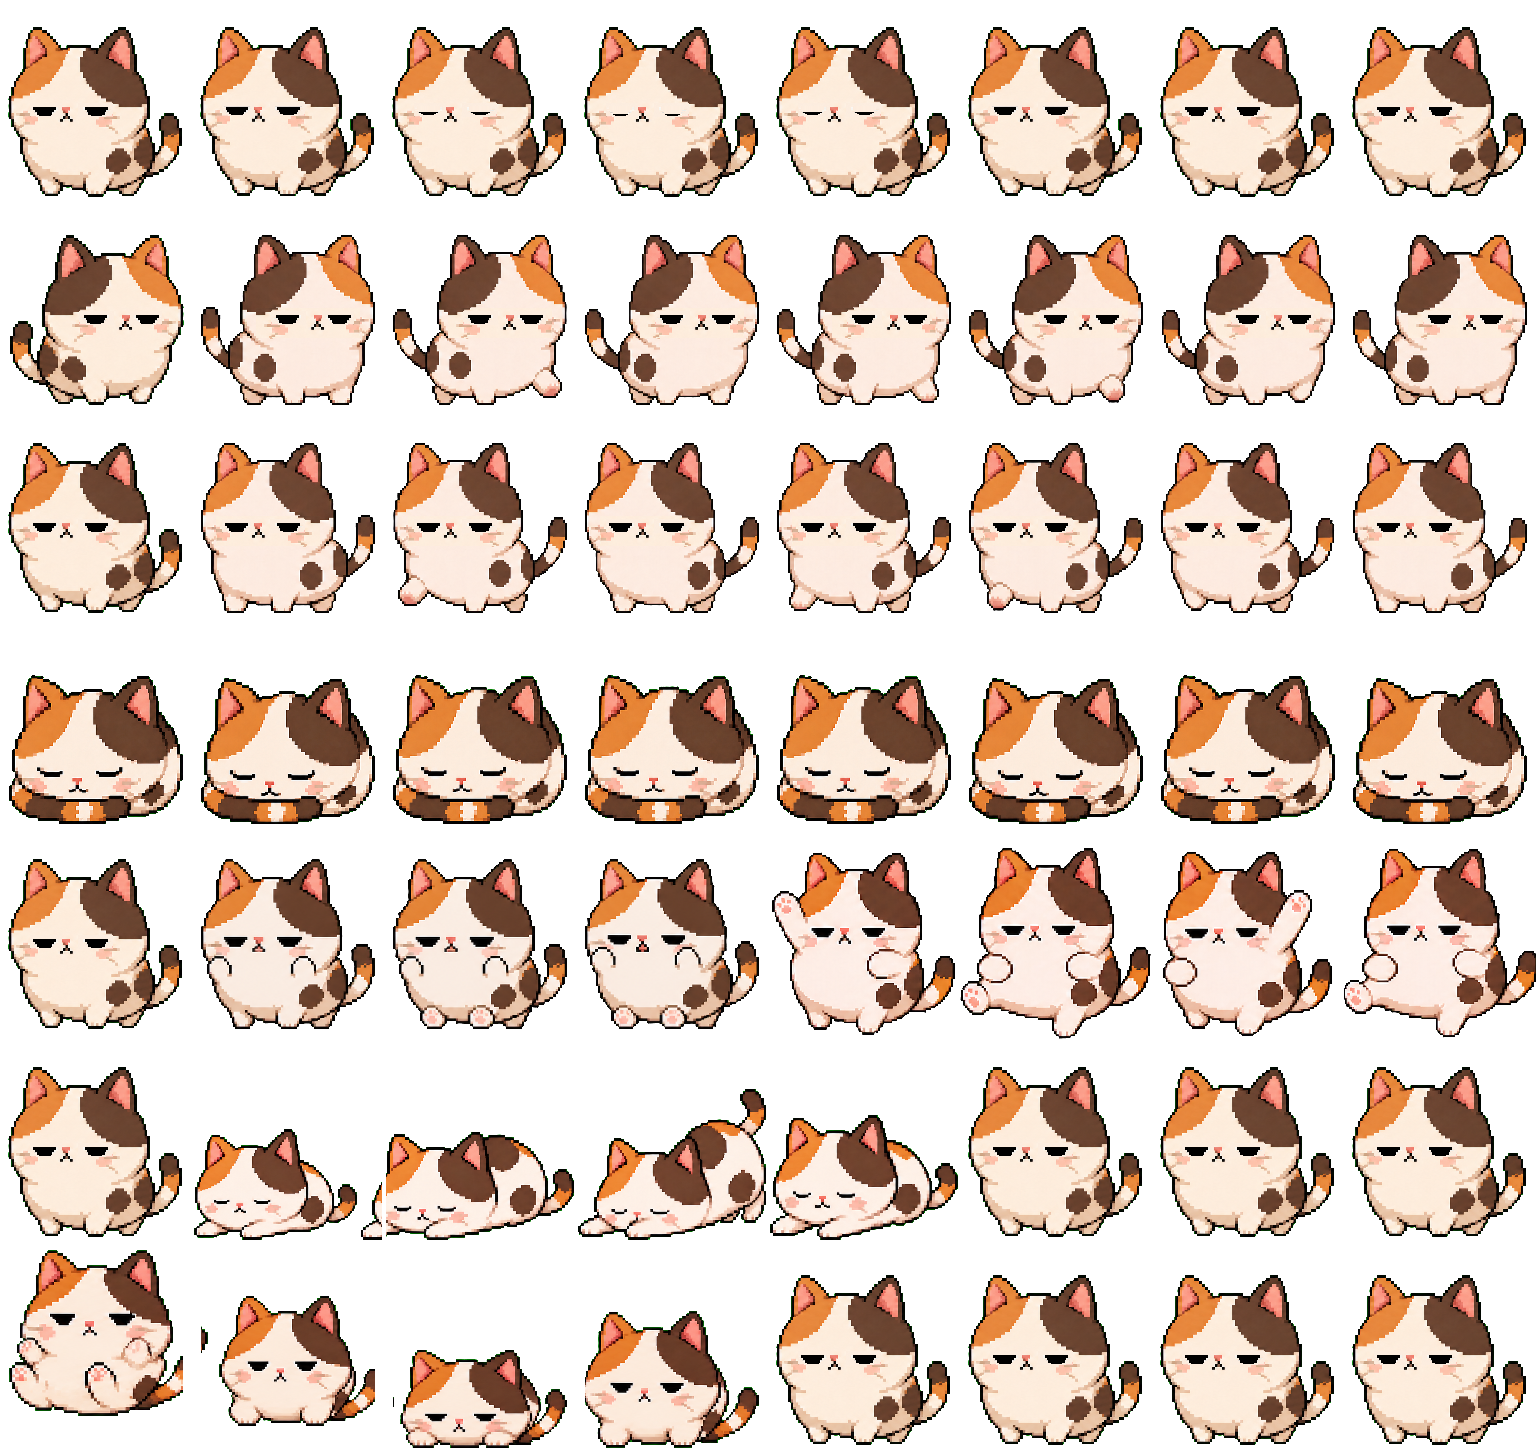
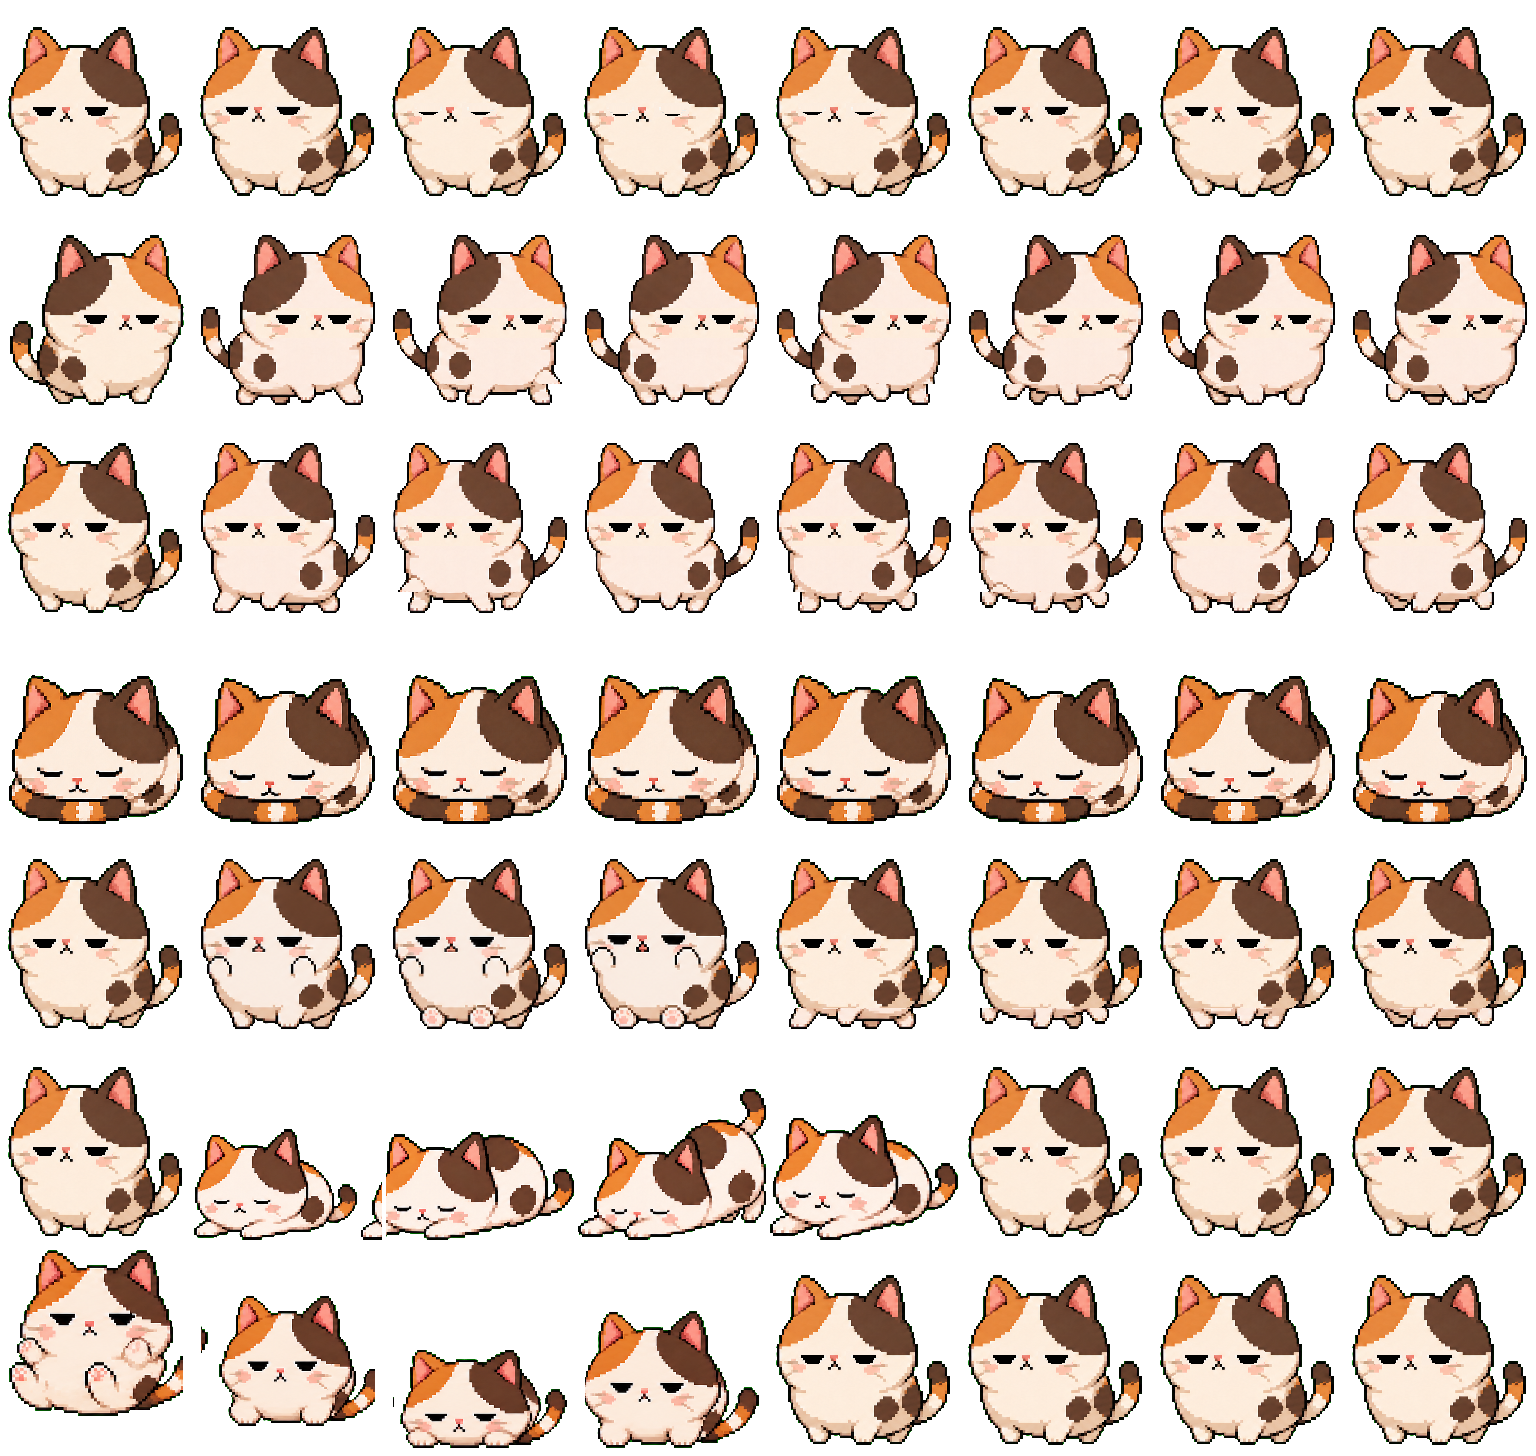
fix: refine FatMochi gait and click reaction

diff --git a/Sources/RoamlingMac/RoamlingRuntime.swift b/Sources/RoamlingMac/RoamlingRuntime.swift
@@ -84,6 +84,8 @@ public final class RoamlingRuntime: NSObject, PetOverlayViewDelegate {
     private var nextWanderAt: TimeInterval
     private var catchArmedUntil: TimeInterval = 0
     private var caughtAnimationUntil: TimeInterval = 0
+    private var clickReactionUntil: TimeInterval = 0
+    private var isClickReactionPending = false
     private var isDragging = false
     private var dragOffset = WorldVector.zero
     private var lastPointerDecision: PointerDecision?
@@ -202,6 +204,8 @@ public final class RoamlingRuntime: NSObject, PetOverlayViewDelegate {
             NotificationCenter.default.removeObserver(screenObserver)
             self.screenObserver = nil
         }
+        clickReactionUntil = 0
+        isClickReactionPending = false
         overlay.setInteractionEnabled(false)
         persistPosition()
         overlay.setVisible(false)
@@ -285,6 +289,8 @@ public final class RoamlingRuntime: NSObject, PetOverlayViewDelegate {
         }
         let pointer = corePoint(fromAppKitScreenPoint: screenPoint)
         dragOffset = movement.position - pointer
+        clickReactionUntil = 0
+        isClickReactionPending = false
         isDragging = false
         isEvadeTransitioning = false
         movement.cancelRoute(stop: true)
@@ -312,11 +318,28 @@ public final class RoamlingRuntime: NSObject, PetOverlayViewDelegate {
             overlay.setInteractionEnabled(false)
             return
         }
+        let now = ProcessInfo.processInfo.systemUptime
         let pointer = corePoint(fromAppKitScreenPoint: screenPoint)
         if wasDragged || isDragging {
             movement.teleport(to: pointer + dragOffset)
+            finishDrop(at: now)
+            return
         }
-        finishDrop(at: ProcessInfo.processInfo.systemUptime)
+
+        // A click has the same caught -> four-paw scramble response as a drag.
+        // Release panel ownership immediately so the reaction never blocks the
+        // underlying app, then finish with the normal landing after one loop.
+        behavior.handle(.dragMoved, at: now)
+        isClickReactionPending = true
+        clickReactionUntil = max(now, caughtAnimationUntil) + draggedCycleDuration
+        let clamped = world.clamp(movement.position, objectSize: overlay.objectSize)
+        movement.teleport(to: clamped)
+        overlay.setPosition(clamped)
+        overlay.setInteractionEnabled(false)
+        catchArmedUntil = 0
+        updateAnimation(pointerDegrees: nil)
+        renderCurrentFrame()
+        if running { scheduleNextTick(after: 1 / 30) }
     }
 
     @objc private func tickTimerFired() {
@@ -336,7 +359,9 @@ public final class RoamlingRuntime: NSObject, PetOverlayViewDelegate {
             cancelRestForActivity(at: now)
         }
         if (behavior.state == .caught || behavior.state == .dragged), !pointer.primaryButtonDown {
-            finishDrop(at: now)
+            if !isClickReactionPending || now >= clickReactionUntil {
+                finishDrop(at: now)
+            }
         }
 
         let decision = pointerModel.evaluate(
@@ -346,10 +371,12 @@ public final class RoamlingRuntime: NSObject, PetOverlayViewDelegate {
         )
         lastPointerDecision = decision
 
-        if decision.shouldArmCatch, areInteractionsEnabled {
+        if !isClickReactionPending, decision.shouldArmCatch, areInteractionsEnabled {
             catchArmedUntil = max(catchArmedUntil, now + tuning.catchWindow)
         }
-        let catchIsArmed = areInteractionsEnabled && now <= catchArmedUntil
+        let catchIsArmed = !isClickReactionPending
+            && areInteractionsEnabled
+            && now <= catchArmedUntil
 
         if behavior.state != .caught && behavior.state != .dragged {
             if catchIsArmed {
@@ -388,9 +415,9 @@ public final class RoamlingRuntime: NSObject, PetOverlayViewDelegate {
         }
 
         let catchIsLive = catchIsArmed && overlay.containsPet(atWorldPoint: pointer.position)
-        overlay.setInteractionEnabled(
-            behavior.state == .caught || behavior.state == .dragged || catchIsLive
-        )
+        let ownsPointer = (behavior.state == .caught || behavior.state == .dragged)
+            && !isClickReactionPending
+        overlay.setInteractionEnabled(ownsPointer || catchIsLive)
 
         updateAnimation(
             pointerDegrees: behavior.state == .lookAtPointer ? decision.lookDirectionDegrees : nil
@@ -725,8 +752,10 @@ public final class RoamlingRuntime: NSObject, PetOverlayViewDelegate {
 
     private func finishDrop(at timestamp: TimeInterval) {
         isDragging = false
+        isClickReactionPending = false
         isEvadeTransitioning = false
         caughtAnimationUntil = 0
+        clickReactionUntil = 0
         behavior.handle(.mouseReleased, at: timestamp)
         let clamped = world.clamp(movement.position, objectSize: overlay.objectSize)
         movement.teleport(to: clamped)
@@ -740,6 +769,12 @@ public final class RoamlingRuntime: NSObject, PetOverlayViewDelegate {
     private var caughtTransitionDuration: TimeInterval {
         guard let track = asset.resolver.resolve(.caught), !track.loops else { return 0 }
         return min(track.frames.reduce(0) { $0 + $1.duration }, 0.8)
+    }
+
+    private var draggedCycleDuration: TimeInterval {
+        guard let track = asset.resolver.resolve(.dragged) else { return 0.4 }
+        let duration = track.frames.reduce(0) { $0 + $1.duration }
+        return min(max(duration, 0.3), 0.8)
     }
 
     private func handleDisplayChange() {
@@ -763,6 +798,8 @@ public final class RoamlingRuntime: NSObject, PetOverlayViewDelegate {
     private func install(asset newAsset: PetAsset) {
         asset = newAsset
         caughtAnimationUntil = 0
+        clickReactionUntil = 0
+        isClickReactionPending = false
         animationPlayer = PetAnimationPlayer(asset: newAsset)
         updateAnimation(pointerDegrees: nil)
         renderCurrentFrame()

diff --git a/Tests/RoamlingLogicTests/PetLogicTests.swift b/Tests/RoamlingLogicTests/PetLogicTests.swift
@@ -117,6 +117,9 @@ func petLogicTests() -> [LogicTest] {
             let draggedMetrics = try Array(36...39).map {
                 try require(alphaMetrics(try require(pet.frameImage(at: $0))))
             }
+            let draggedSignatures = try Array(36...39).map {
+                try require(imageSignature(try require(pet.frameImage(at: $0))))
+            }
             let idleFrame = try require(pet.frameImage(at: 0))
             let idleMetric = try require(alphaMetrics(idleFrame))
             let idleSignature = try require(imageSignature(idleFrame))
@@ -143,11 +146,10 @@ func petLogicTests() -> [LogicTest] {
             let maximumDraggedBoundsCenter = try require(draggedBoundsCenters.max())
             try expect(maximumDraggedBoundsCenter - minimumDraggedBoundsCenter < 2)
             try expect(draggedMetrics.allSatisfy {
-                $0.width <= 192 && $0.height >= idleMetric.height + 13
+                abs($0.width - idleMetric.width) <= 2
+                    && abs($0.height - idleMetric.height) <= 2
             })
-            try expect(draggedMetrics.contains {
-                $0.width >= idleMetric.width + 9 || $0.height >= idleMetric.height + 18
-            })
+            try expect(Set(draggedSignatures).count == 4)
             let caughtStart = try require(pet.frameImage(at: 32))
             let caughtStartSignature = try require(imageSignature(caughtStart))
             try expect(caughtStartSignature == idleSignature)
@@ -179,9 +181,9 @@ func petLogicTests() -> [LogicTest] {
 
             player.setCapability(.dragged)
             try expect(player.currentFrameIndex == 36)
-            player.update(deltaTime: 0.13)
+            player.update(deltaTime: 0.10)
             try expect(player.currentFrameIndex == 37)
-            player.update(deltaTime: 0.36)
+            player.update(deltaTime: 0.27)
             try expect(player.currentFrameIndex == 36)
         },
         LogicTest(name: "Mochi pose-derived cycles remain reversible") {

diff --git a/Sources/RoamlingPet/MascotPetFactory.swift b/Sources/RoamlingPet/MascotPetFactory.swift
@@ -95,7 +95,7 @@ public enum MascotPetFactory {
             ),
             "dragged": track(
                 "dragged",
-                frames: [(36, 0.12), (37, 0.12), (38, 0.12), (39, 0.12)]
+                frames: [(36, 0.09), (37, 0.09), (38, 0.09), (39, 0.09)]
             ),
             "sitting": track("sitting", frames: [(0, 0.8)]),
             "landing": track(
@@ -118,13 +118,13 @@ public enum MascotPetFactory {
             ),
             "waiting": track(
                 "waiting",
-                frames: [(36, 0.17), (37, 0.17), (38, 0.17), (39, 0.17)]
+                frames: [(36, 0.12), (37, 0.12), (38, 0.12), (39, 0.12)]
             ),
             "working": track("working", frames: walkRightFrames),
             "running": track("running", frames: walkRightFrames),
             "waving": track(
                 "waving",
-                frames: [(36, 0.16), (37, 0.16), (38, 0.16), (39, 0.16)]
+                frames: [(36, 0.12), (37, 0.12), (38, 0.12), (39, 0.12)]
             ),
             "review": track("review", frames: idleFrames)
         ]

diff --git a/docs/architecture.md b/docs/architecture.md
@@ -303,7 +303,8 @@ normal/look/evade  -> window click-through
 catch armed AND pointer in pet ellipse -> interactive
 mouseDown          -> caught
 mouseDragged       -> caught intro를 끝낸 뒤 dragged; global pointer point로 panel 이동 + paw cycle 반복
-mouseUp            -> nearest visible frame clamp, dropped, click-through
+mouseUp after drag -> nearest visible frame clamp, dropped, click-through
+mouseUp after click -> 즉시 click-through, caught intro + 짧은 네 발 loop 1회, dropped
 ```
 
 window가 sprite 크기이고 hit ellipse가 투명 margin을 제외하므로 interactive 순간에도
@@ -323,12 +324,13 @@ alpha silhouette을 독립적으로 중앙 정렬하고, 크기는 idle bounding
 center는 2px 이상 좌우로 움직이지 않아야 한다. 이 invariant는 asset test로 고정해
 moonwalk, 목이 사라지는 체형 변화, 얼굴 drift regression을 함께 막는다.
 
-caught track은 idle과 동일한 첫 frame에서 앞발을 드는 짧은 non-loop intro이고, dragged
-track은 그 마지막 자세와 이어지는 별도의 loop다. runtime은 mouseDown 시 intro 길이만큼
-caught를 유지한 다음, pointer가 이미 이동 중이어도 dragged loop로 넘긴다. 따라서 클릭만
-했을 때와 즉시 drag했을 때 모두 같은 부드러운 시작을 본다. dragged frame은 앞발과 뒷발의
-교대 동작을 읽을 수 있도록 팔다리만 idle bounds 밖으로 확장할 수 있다. 최대 범위는
-192×208 atlas cell 안이며 bounds center는 계속 고정한다.
+caught track은 idle과 동일한 첫 frame에서 작은 앞발이 나타나는 짧은 non-loop intro이고,
+dragged track은 그 마지막 자세와 이어지는 별도의 loop다. runtime은 mouseDown 시 intro
+길이만큼 caught를 유지한 다음, pointer가 이미 이동 중이어도 dragged loop로 넘긴다. 실제
+drag는 mouseUp까지 loop를 반복한다. 이동 없는 click은 panel ownership을 즉시 반납하고
+같은 intro와 loop를 한 번 재생한 뒤 dropped로 전환하므로 underlying app을 추가로 막지
+않는다. dragged frame도 idle과 같은 174×170 bounds와 짧은 팔다리 길이를 유지하며,
+앞·뒤의 대각선 발 쌍만 빠르게 교대한다.
 
 ## Safe-zone design
 
@@ -425,8 +427,9 @@ MVP 0.7에서 보이는 walk/idle/sleep/caught/stretch/landing만 authored atlas
 key-pose 기반 evaluation atlas를 유지하고 code-drawn cat은 resource failure 전용 fallback이다.
 후속 agent reaction row를 미리 만들지 않아 milestone 범위를 지키며, third-party asset
 license에 의존하지 않고 Petdex loader는 사용자 package와 fixtures로 계속 검증한다. 모든
-동작의 identity 기준은 idle이며, walk/caught는 크기·중심·얼굴·목선 invariant를 asset
-test로 고정한다. dragged만 읽기 쉬운 limb extension을 위해 전체 silhouette 확장을 허용한다.
+동작의 identity 기준은 idle이며, walk/caught/dragged는 크기·중심·얼굴·목선 invariant를
+asset test로 고정한다. dragged도 별도의 긴 팔다리를 만들지 않고 walk와 같은 짧은 발
+길이의 빠른 대각선 교대 동작을 사용한다.
 
 ## Future migration
 

diff --git a/Sources/RoamlingPet/Resources/BuiltInPets/README.md b/Sources/RoamlingPet/Resources/BuiltInPets/README.md
@@ -16,11 +16,11 @@ evaluation at actual desktop size.
 `fat-mochi-runtime-atlas.png` is the authored runtime asset for the default
 FatMochi. It has 8 columns of 192×208 cells and seven internal rows: idle,
 running right, running left, sleeping, caught, stretching, and landing. Walk
-frames articulate all four paws and add restrained body/tail follow-through;
-the other current-MVP states use blink, breathing, paw-wiggle, forward-stretch,
-and landing sequences. The stretch is the feline play-bow shape—forepaws
-forward, chest low, hindquarters raised. An upright, human-like arms-up draft
-was explicitly rejected and is not included.
+frames articulate diagonal front/hind pairs and add restrained body/tail
+follow-through; the other current-MVP states use blink, breathing, a compact
+four-paw scramble, forward-stretch, and landing sequences. The stretch is the
+feline play-bow shape—forepaws forward, chest low, hindquarters raised. An
+upright, human-like arms-up draft was explicitly rejected and is not included.
 
 This seven-row layout is an internal built-in asset, not a new Petdex package
 version. Imported Petdex pets still use their v1/v2 manifest and atlas layouts
@@ -73,12 +73,20 @@ neck invariant, planted-paw travel, lifted-paw recovery, chronological opposing
 contacts, a fixed torso, and a seamless transition back to idle.
 
 Frames 32–35 keep the prior 174×170 one-shot caught transition beginning with
-the exact approved idle frame. Frames 36–39 now form a stronger dragged loop:
-left/right forepaw height and outward hind-paw kicks alternate visibly, with a
-restrained tail response. Those limb extensions may occupy 169–192×183–191
-pixels while their alpha-bounds center stays stable inside the 192×208 cell.
-The torso remains compact instead of stretching with the paws. The approved
-idle/blink row was preserved pixel-for-pixel during this pass.
+the exact approved idle frame. Frames 36–39 now form a compact dragged loop:
+front/hind diagonal pairs alternate below the body like a short in-air run.
+They keep the idle frame's 174×170 alpha bounds, normal short leg length, stable
+center, face, neck, and torso instead of extending arms beside the face. A
+short click plays the same caught-to-scramble response once while remaining
+click-through; a held drag repeats the loop. The approved idle/blink row was
+preserved pixel-for-pixel during this pass.
+
+The 2026-08-26 gait pass used the approved local idle/walk references with
+OpenAI's built-in image-generation mode. The prompt requested an eight-frame
+four-beat walk in which every paw changes position and a compact four-frame
+scramble constrained below the belly. Generated faces and torsos were rejected;
+only selected lower-body motion was chroma-keyed and combined locally with the
+approved FatMochi body, using nearest-neighbor sampling.
 
 The working chroma-key prompts changed only the background to a flat solid
 `#00FF00`; transparency was produced locally without network upload.

diff --git a/docs/mvp.md b/docs/mvp.md
@@ -57,8 +57,9 @@ travel slowly -> sleep
 
 표준 pet에 sleep/sit animation이 없으면 pet 사용을 막지 않고 idle로 fallback한다.
 기본 캐릭터 FatMochi는 현재 gate에서 실제 보이는 동작만 authored frame으로 다듬었다.
-walk는 8장 동안 네 발이 교차하고 몸통과 꼬리가 작게 따라오며, idle blink, sleep breathing,
-caught paw wiggle, drop landing, 고양이식 forward stretch도 각각 독립 frame을 쓴다. stretch는
+walk는 8장 동안 앞·뒤의 대각선 발이 교차하고 몸통과 꼬리가 작게 따라오며, idle blink,
+sleep breathing, caught paw wiggle, drop landing, 고양이식 forward stretch도 각각 독립
+frame을 쓴다. stretch는
 앞발을 뻗고 가슴을 낮추며 엉덩이를 드는 자세이고 사람처럼 앞발을 위로 드는 pose는 쓰지
 않는다. Mochi는 아직 네 key pose에서 만든 reversible evaluation cycle을 유지한다.
 active travel만 60Hz로 갱신하며 idle/sleep의 저전력 cadence는 그대로다. 이는 MVP 0.7의
@@ -68,10 +69,12 @@ creature-quality polish이며 이후 agent integration용 animation이나 source
 174×170px silhouette과 같은 얼굴을 유지한 채 짧은 다리만 교차한다. 첫 walk frame은 idle
 원화를 그대로 사용하고 이후 frame도 볼 아래가 좁아졌다가 몸통으로 이어지는 목·어깨선을
 유지한다. alpha bounds center 편차를 2px 미만으로 고정해 atlas 안에서 몸이 뒤로 흐르다
-되감기는 moonwalk도 막는다. 클릭 직후에는 idle과 같은 첫 frame에서 앞발을 드는 caught
-intro를 한 번 재생한다. 실제 drag 중에는 앞발 높이와 뒷발 킥이 좌우로 교대하는 별도의
-네 frame loop를 반복하며, 팔다리가 뻗는 범위만 idle silhouette 밖으로 허용한다. idle의
-승인된 검은 눈과 half-close/closed blink frame은 변경하지 않는다.
+되감기는 moonwalk도 막는다. 클릭 직후에는 idle과 같은 첫 frame에서 작은 앞발이 나타나는
+caught intro를 한 번 재생한다. 실제 drag 중에는 idle과 같은 짧은 팔다리 길이를 유지한
+채 네 발의 대각선 쌍이 빠르게 교대하는 네 frame loop를 반복한다. 짧은 click도 같은
+intro와 loop를 한 번 끝까지 보여 준 뒤 landing으로 이어지며, animation 동안 overlay는
+즉시 click-through로 돌아간다. idle의 승인된 검은 눈과 half-close/closed blink frame은
+변경하지 않는다.
 
 ### Explicitly out of scope for this gate
 
